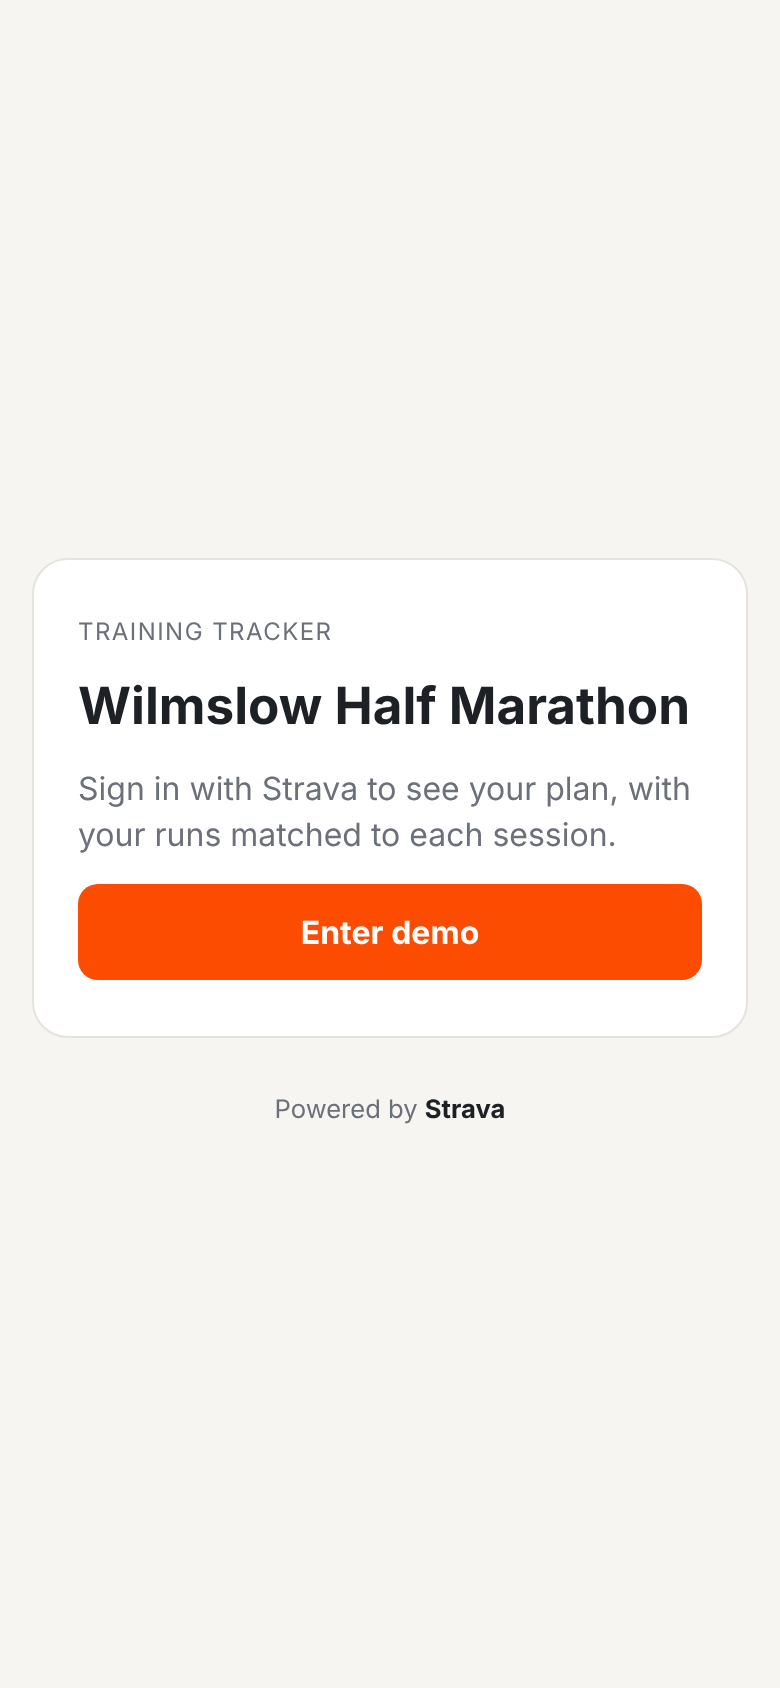
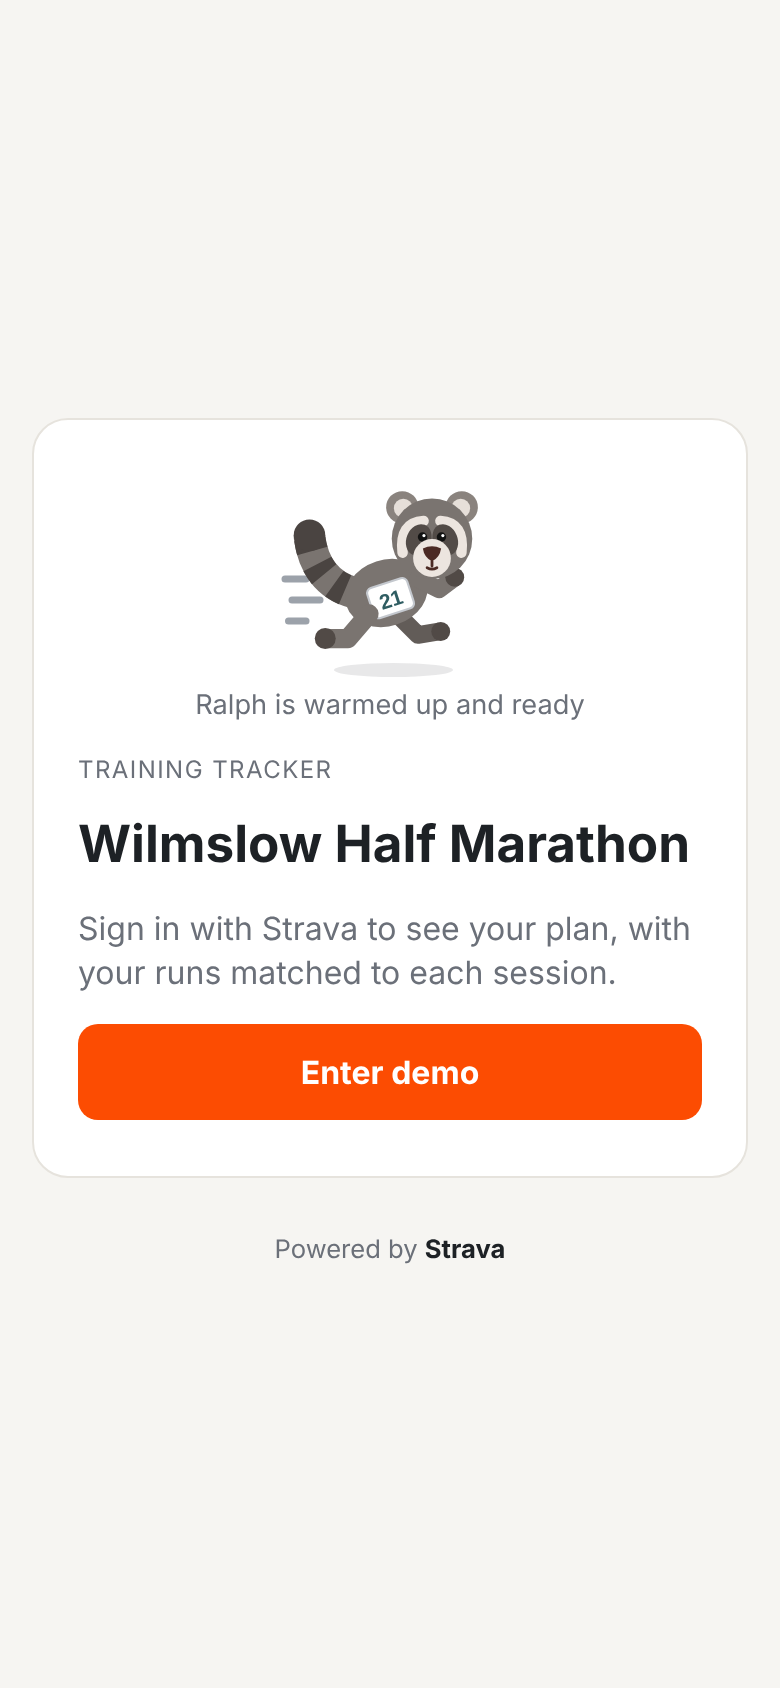
Add half marathons' worth card and Ralph the raccoon mascot (#4)
- Half marathons' worth card on the progress page: one medal per 21.1 km, plus time on feet
- Ralph the raccoon: SVG mascot on the sign-in screen and page headers, head as favicon
- "Ralph says" speech bubble on the progress page (lib/ralph.ts, with tests)

Claude-Session: https://claude.ai/code/session_017WMbTeU72S8pAimoYAfmya

Changed region(s): [[0.0923, 0.2773, 0.9231, 0.6777], [0.5538, 0.7393, 0.6462, 0.7701]]

diff --git a/app/components/Tracker.tsx b/app/components/Tracker.tsx
@@ -8,6 +8,7 @@ import type { SessionResult, WeekResult } from "@/lib/types";
 import ErrorCard, { type ApiError } from "./ErrorCard";
 import PlanMenu from "./PlanMenu";
 import PoweredByStrava from "./PoweredByStrava";
+import RaccoonLogo from "./RaccoonLogo";
 import SessionSheet from "./SessionSheet";
 import WeekView from "./WeekView";
 
@@ -99,12 +100,15 @@ export default function Tracker() {
     <main className="page">
       <header className="top">
         <div className="top-row">
-          <div>
-            <p className="eyebrow">
-              {data.athlete.firstname || "Signed in"}
-              {data.demo && <span className="demo-tag">demo</span>}
-            </p>
-            <h1>{plan?.raceName ?? "Wilmslow Half Marathon"}</h1>
+          <div className="brand">
+            <RaccoonLogo size={48} />
+            <div>
+              <p className="eyebrow">
+                {data.athlete.firstname || "Signed in"}
+                {data.demo && <span className="demo-tag">demo</span>}
+              </p>
+              <h1>{plan?.raceName ?? "Wilmslow Half Marathon"}</h1>
+            </div>
           </div>
           <form action="/api/auth/logout" method="post">
             <button type="submit" className="link-button">

diff --git a/tests/ralph.test.ts b/tests/ralph.test.ts
@@ -1,0 +1,29 @@
+import { describe, expect, it } from "vitest";
+import { ralphSays } from "../lib/ralph";
+
+describe("ralphSays", () => {
+  it("cheers you on before the first run is due", () => {
+    const message = ralphSays({ total: 40, due: 0, done: 0, partial: 0 });
+    expect(message).toMatch(/first run/);
+  });
+
+  it("is impressed at 90% or more of due runs", () => {
+    const message = ralphSays({ total: 40, due: 10, done: 8, partial: 1 });
+    expect(message).toBe("9 of 10 runs done so far. Ralph is seriously impressed!");
+  });
+
+  it("says you're on track from 70%", () => {
+    const message = ralphSays({ total: 40, due: 10, done: 7, partial: 0 });
+    expect(message).toMatch(/on track/);
+  });
+
+  it("encourages you when behind", () => {
+    const message = ralphSays({ total: 40, due: 10, done: 3, partial: 1 });
+    expect(message).toMatch(/every run counts/);
+  });
+
+  it("celebrates when every run is done", () => {
+    const message = ralphSays({ total: 40, due: 40, done: 39, partial: 1 });
+    expect(message).toMatch(/speechless/);
+  });
+});

diff --git a/app/components/ProgressDashboard.tsx b/app/components/ProgressDashboard.tsx
@@ -4,6 +4,7 @@ import Link from "next/link";
 import { useCallback, useEffect, useState } from "react";
 import { formatKm, formatPace, formatShortDate, stravaUrl } from "@/lib/format";
 import type { ProgressResponse } from "@/lib/progress";
+import { ralphSays } from "@/lib/ralph";
 import {
   halfMarathons,
   seasonStats,
@@ -13,6 +14,7 @@ import {
 } from "@/lib/stats";
 import ErrorCard, { type ApiError } from "./ErrorCard";
 import PoweredByStrava from "./PoweredByStrava";
+import RaccoonLogo from "./RaccoonLogo";
 
 /** The progress page: runs dial, cumulative distance and best runs. */
 export default function ProgressDashboard() {
@@ -77,6 +79,11 @@ export default function ProgressDashboard() {
     <main className="page">
       {header}
       {error && <ErrorCard error={error} onRetry={load} />}
+
+      <section className="ralph-says" aria-label="Ralph says">
+        <RaccoonLogo size={64} />
+        <p className="speech">{ralphSays(stats.runs)}</p>
+      </section>
 
       <section className="card panel">
         <h2>Runs done</h2>

diff --git a/app/globals.css b/app/globals.css
@@ -1218,3 +1218,59 @@ a {
 .medal-star {
   fill: #fff6d6;
 }
+
+/* Mascot ----------------------------------------------------------------- */
+
+.raccoon {
+  display: block;
+  flex-shrink: 0;
+}
+
+.brand {
+  display: flex;
+  align-items: center;
+  gap: 10px;
+  min-width: 0;
+}
+
+.top-row .link-button {
+  white-space: nowrap;
+}
+
+.signin-mascot {
+  margin: -8px 0 0;
+  display: grid;
+  justify-items: center;
+  gap: 2px;
+}
+
+.ralph-says {
+  display: flex;
+  align-items: center;
+  gap: 10px;
+  margin-bottom: 12px;
+}
+
+.speech {
+  position: relative;
+  flex: 1;
+  background: var(--card);
+  border: 1px solid var(--line);
+  border-radius: var(--radius);
+  padding: 10px 14px;
+  font-size: 0.92rem;
+}
+
+/* Bubble tail pointing at Ralph. */
+.speech::before {
+  content: "";
+  position: absolute;
+  left: -7px;
+  top: 50%;
+  width: 12px;
+  height: 12px;
+  background: var(--card);
+  border-left: 1px solid var(--line);
+  border-bottom: 1px solid var(--line);
+  transform: translateY(-50%) rotate(45deg);
+}

diff --git a/lib/ralph.ts b/lib/ralph.ts
@@ -1,0 +1,22 @@
+// What Ralph, the app's raccoon mascot, says about your progress.
+
+import type { RunCounts } from "./stats";
+
+/** A short line of encouragement from Ralph, based on runs done so far. */
+export function ralphSays(runs: RunCounts): string {
+  const ran = runs.done + runs.partial;
+  const share = runs.due > 0 ? ran / runs.due : 0;
+  let message: string;
+  if (runs.total > 0 && ran >= runs.total) {
+    message = "Every single run done. Ralph is speechless (and a bit emotional).";
+  } else if (runs.due === 0) {
+    message = "Bib pinned, tail fluffed. Ralph is ready for your first run!";
+  } else if (share >= 0.9) {
+    message = `${ran} of ${runs.due} runs done so far. Ralph is seriously impressed!`;
+  } else if (share >= 0.7) {
+    message = `${ran} of ${runs.due} runs done so far. Ralph reckons you're on track.`;
+  } else {
+    message = `${ran} of ${runs.due} runs done so far. Ralph says every run counts, so let's get the next one in.`;
+  }
+  return message;
+}

diff --git a/app/components/SignIn.tsx b/app/components/SignIn.tsx
@@ -1,4 +1,5 @@
 import PoweredByStrava from "./PoweredByStrava";
+import RaccoonLogo from "./RaccoonLogo";
 
 const ERRORS: Record<string, string> = {
   denied: "Strava access wasn't granted. Please try again.",
@@ -21,6 +22,10 @@ export default function SignIn({
   const page = (
     <main className="signin">
       <div className="signin-card">
+        <figure className="signin-mascot">
+          <RaccoonLogo size={112} />
+          <figcaption className="muted small">Ralph is warmed up and ready</figcaption>
+        </figure>
         <p className="eyebrow">Training tracker</p>
         <h1>Wilmslow Half Marathon</h1>
         <p className="muted">

diff --git a/app/components/RaccoonLogo.tsx b/app/components/RaccoonLogo.tsx
@@ -1,0 +1,20 @@
+/** Ralph, the app's raccoon mascot, running in his race bib. */
+export default function RaccoonLogo({
+  size,
+  className = "",
+}: {
+  size: number;
+  className?: string;
+}) {
+  const logo = (
+    <img
+      src="/raccoon.svg"
+      alt="Ralph the raccoon"
+      title="Ralph"
+      width={size}
+      height={size}
+      className={`raccoon ${className}`.trim()}
+    />
+  );
+  return logo;
+}

diff --git a/README.md b/README.md
@@ -26,7 +26,10 @@ matched to planned sessions automatically.
 - **Progress page.** A dial of runs done out of runs planned (with a tick for how many
   were due by today), cumulative distance run against the plan, and the fastest
   intervals, fastest tempo and longest run so far, plus a row of medals counting
-  how many half marathons' worth you've run. Paces are whole-run averages,
+  how many half marathons' worth you've run.
+- **Ralph.** The app's mascot, a raccoon in a race bib
+  (`public/raccoon.svg`; his head is the favicon). He comments on your progress at the
+  top of the progress page (`lib/ralph.ts`). Paces are whole-run averages,
   because only Strava's activity summaries are fetched.
 - **Download / upload.** Download the plan with `status` and `actual` filled in, edit
   it elsewhere (e.g. with Claude), and upload it again. Progress is stored by session
